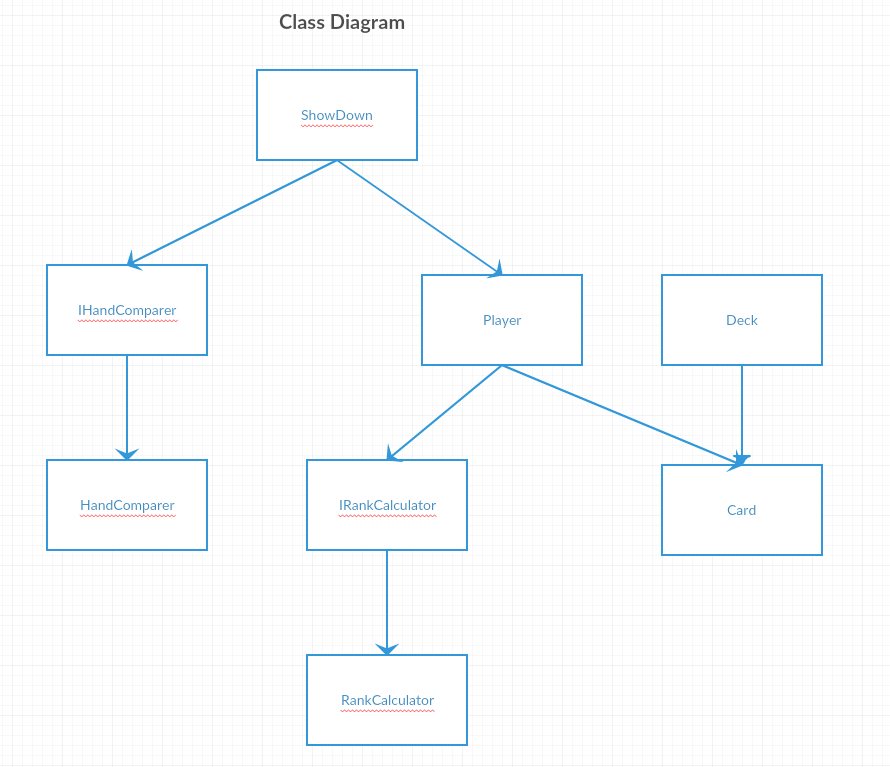
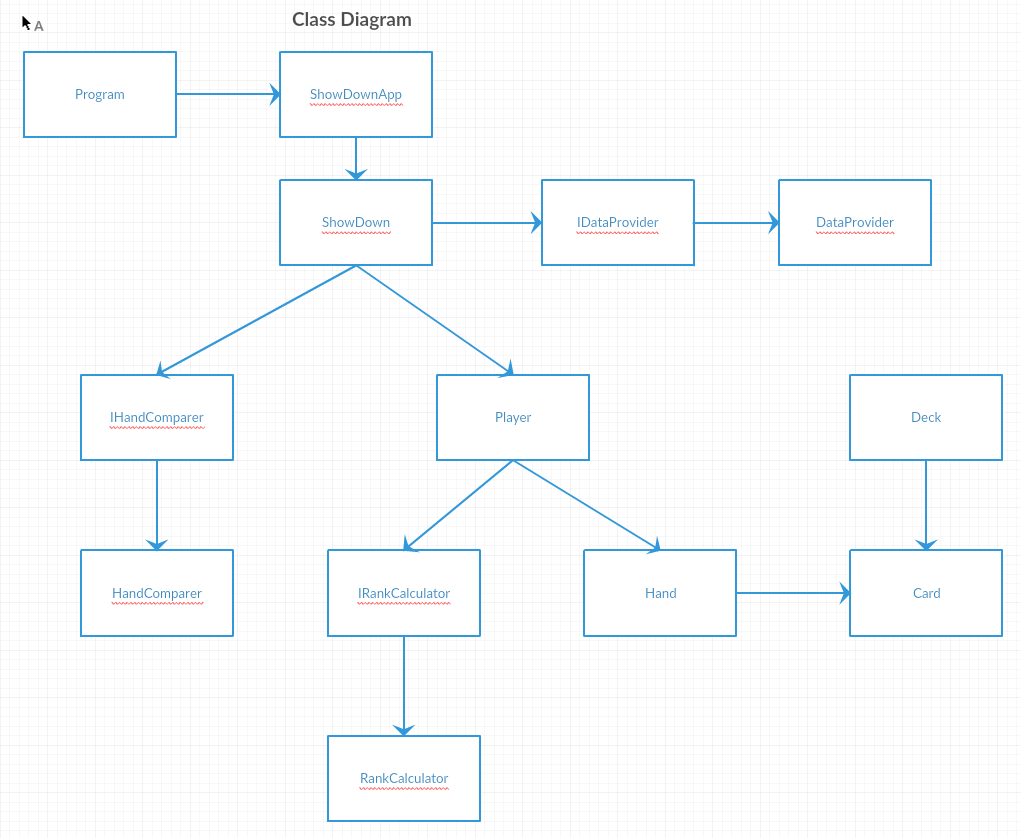
updating README and class diagram

diff --git a/README.md b/README.md
@@ -1,26 +1,47 @@
 # PokerShowDown #
 
-## Problem Description ##
-Poker is a common card game with many variations. We would like to build a library which will take poker hands as input and output the player with the winning hand for a particular showdown. 
+## Installation
 
-## Input ##
-The library accepts data input in the following format:
-<Name>
-<Hand>
-  
-There are two lines of data, where <Name> is the name of the player (as a string of text) and <Hand> is a five-card poker hand in the following format:
--	A comma separated list of cards
--	Each card is two characters – one character for the card index and one for the suit
--	Card indexes are listed as A,2,3,4,5,6,7,8,9,J,Q,K representing the card value
--	Suites are listed as S,C,D,H for Spades, Clubs, Diamonds and Hearts respectively
+### Clone
+- Clone this repo to your local machine using `https://github.com/mikeberezowski/PokerShowDown.git`
+
+From the root directory navigate to PokerApp\PokerConsoleApp
+
+```shell
+$ cd PokerApp\PokerConsoleApp
+$ dotnet run
+```
+
+## Features
+The current implementation handles a single Showdown with up to 10 players. Only the following Poker hands are calculated:
+Flush
+Three of a kind
+One Pair
+High Card
+
+## Usage
+You can provide an input file in a .txt format 
+
+```shell
+$ dotnet run input.txt
+```
+The file data is in two lines:
+<Player Name>
+<Player Hand>
+
+Where <Player Name> is a string denoting the player's name
+and <Player Hand> is a comma separated list of the cards in the following format:
+8S, 4D, 9H, 10C
+Where the first digits represent the card value: 2, 3, 4, 5, 6, 7, 8, 9, 10, J, Q, K, A
+The last digit is a single character representing the suit:
+H = Hearts
+D = Diamonds
+C = Clubs
+S = Spades
 
 Example:
-Joe
-AD, 5C, JH, 7S, 4C
-(interpreted as: Joe has a hand consisting of the following cards: Ace of Diamonds, Five of Clubs, Jack of Hearts, Seven of Spades and Four of Clubs). 
+PlayerOne
+4D, 5D, 4C, 4S, JD
 
-## Restrictions ##
--	Each player has only one hand of cards
--	Each hand only has 5 cards
--	Each card can only exist in one player’s hand
-
+## Documentation
+Please see the documentation found in the /Documentation folder within the repository
